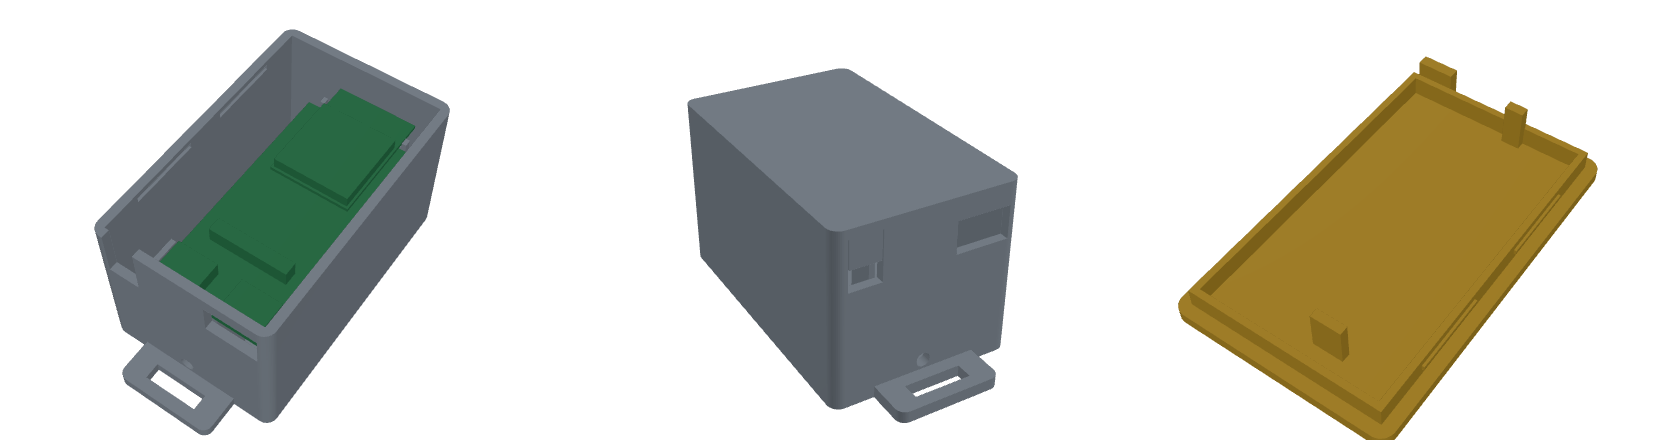
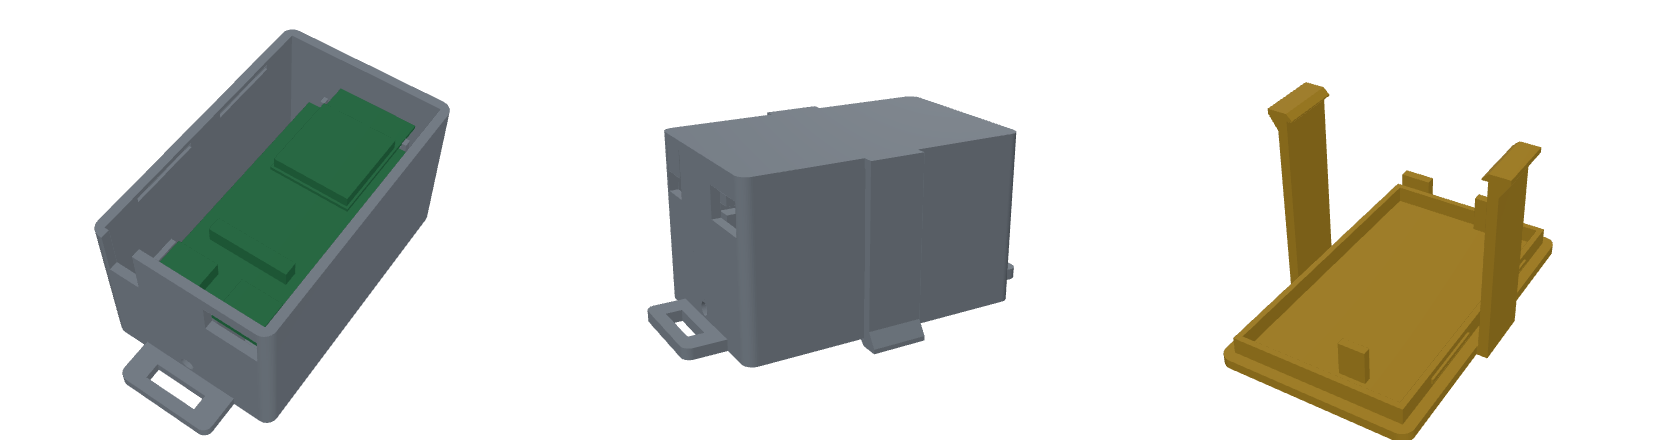
Add clips to the case lid
The lid's snap bumps did not hold it on. The lid now has a springy arm on
each long side that runs down the outside of the base and hooks under the
back edge, with a pull tab to release it. The base is unchanged, so a base
printed earlier still fits.

Claude-Session: https://claude.ai/code/session_01Bei1VRkiBdkUhXWhgDNMhk

diff --git a/enclosure/esp32-c6-devkitc-1/case.py b/enclosure/esp32-c6-devkitc-1/case.py
@@ -17,7 +17,7 @@ from pathlib import Path
 
 import numpy as np
 import trimesh
-from manifold3d import CrossSection, JoinType, Manifold
+from manifold3d import CrossSection, Error, JoinType, Manifold, Mesh
 
 # --- Board (Espressif drawing v1.2) ---------------------------------------
 PCB_W = 25.4          # board width
@@ -53,6 +53,16 @@ LIP_T = 1.2
 LID_CLEAR = 0.2       # gap between lid lip and walls
 SNAP = 0.45           # how far the snap bumps stand proud of the lip
 POST_GAP = 0.15       # gap left between the lid's hold-down posts and the board
+
+# Clips: one springy arm on each long side of the lid runs down the outside of
+# the base and hooks under the back edge. They need nothing on the base, so a
+# base printed before the clips were added still works.
+CLIP_W = 12.0         # width of each arm
+CLIP_T = 2.0          # arm thickness
+CLIP_GAP = 0.2        # gap between arm and the base's side wall
+HOOK = 1.0            # how far the hook reaches under the back edge
+HOOK_T = 1.5          # hook thickness
+HOOK_GAP = 0.1        # play between hook and the back of the case
 
 EAR_LEN = 9.0         # mounting ears at each end, for a strap or cable ties
 EAR_W = 22.0
@@ -160,6 +170,61 @@ def lid(cable_floor):
     part += box(BX + 11.0, BY + 0.8, PCB_TOP + POST_GAP, BX + 14.3, BY + 2.6, BASE_H + 0.01)
     part += box(BX + 10.0, BY + PCB_L + 0.4, PCB_TOP + MODULE_PCB_T + POST_GAP,
                 BX + 15.4, BY + PCB_L + 2.0, BASE_H + 0.01)
+    part += clips()
+    return part
+
+
+def xz_prism(points, y_centre, width):
+    """Extrude a convex polygon drawn in the x-z plane along y, centred on y_centre.
+
+    Built directly from vertices (rather than extruded and rotated) so every
+    coordinate is exact and the faces line up with the rest of the lid.
+    """
+    pts = list(points)
+    area = sum(x0 * z1 - x1 * z0 for (x0, z0), (x1, z1) in zip(pts, pts[1:] + pts[:1]))
+    if area < 0:
+        pts.reverse()
+    n = len(pts)
+    y0, y1 = y_centre - width / 2, y_centre + width / 2
+    verts = [(x, y0, z) for x, z in pts] + [(x, y1, z) for x, z in pts]
+    tris = []
+    for k in range(1, n - 1):
+        tris.append((0, k, k + 1))               # cap at y0, facing -y
+        tris.append((n, n + k + 1, n + k))       # cap at y1, facing +y
+    for k in range(n):
+        a, b = k, (k + 1) % n
+        tris.append((a, n + a, n + b))
+        tris.append((a, n + b, b))
+    mesh = Mesh(vert_properties=np.array(verts, dtype=np.float32), tri_verts=np.array(tris, dtype=np.uint32))
+    m = Manifold(mesh)
+    if m.volume() < 0 or m.status() != Error.NoError:
+        raise ValueError("bad prism")
+    return m
+
+
+def clips():
+    """Two clip arms, attached to the lid plate, in assembled coordinates."""
+    part = Manifold()
+    yc = OUT_L / 2
+    top = BASE_H + LID_T
+    z_hook = -HOOK_GAP
+    z_end = z_hook - HOOK_T
+    for side in (-1, 1):
+        def x(v):
+            # v is measured outward from the side wall; flip it for the right side.
+            return -v if side < 0 else OUT_W + v
+        a_in, a_out = CLIP_GAP, CLIP_GAP + CLIP_T
+        # Arm, from the lid plate down past the back of the case.
+        arm = [(x(a_in), z_end), (x(a_out), z_end), (x(a_out), top), (x(a_in), top)]
+        # Bridge joining the arm to the lid plate.
+        bridge = [(x(a_out), BASE_H), (x(-1.5), BASE_H), (x(-1.5), top), (x(a_out), top)]
+        # Hook under the back edge, with a sloped lead-in so it rides over the
+        # wall as the lid is pressed on.
+        hook = [(x(a_in), z_hook), (x(-HOOK), z_hook), (x(-HOOK), z_hook - 0.3), (x(a_in), z_end)]
+        # Pull tab at the tip, to flick the arm outward when taking the lid off.
+        tab = [(x(a_out), z_end), (x(a_out + 2.0), z_end), (x(a_out + 2.0), z_end + 1.0), (x(a_out), z_end + 4.0)]
+        for poly in (arm, bridge, hook, tab):
+            part += xz_prism(poly, yc, CLIP_W)
     return part
 
 
@@ -174,7 +239,9 @@ def main():
     b, cable_floor = base()
     lid_part = lid(cable_floor)
     # Print the lid plate-down: flip it over and sit it on the bed.
-    lid_print = lid_part.rotate([180, 0, 0]).translate([0, OUT_L, BASE_H + LID_T])
+    lid_print = lid_part.rotate([180, 0, 0])
+    lo = lid_print.bounding_box()
+    lid_print = lid_print.translate([0, -lo[1], -lo[2]])
     for name, m in (("base", b), ("lid", lid_print)):
         t = to_trimesh(m)
         t.export(out / f"{name}.stl")

diff --git a/enclosure/esp32-c6-devkitc-1/README.md b/enclosure/esp32-c6-devkitc-1/README.md
@@ -7,7 +7,7 @@ A two-part case for the reference board, sized for an outdoor meter cabinet.
 | File | What it is |
 | --- | --- |
 | `base.stl` | The tray the board sits in. Print it standing on its back |
-| `lid.stl` | Snap-on lid. Already turned plate-down for printing |
+| `lid.stl` | Clip-on lid. Already turned plate-down for printing |
 | `assembled-preview.stl` | Both parts together, for viewing only. Do not print |
 | `case.py` | Generates the STL files. Every size is a parameter at the top |
 
@@ -30,7 +30,8 @@ round cable up to about 4.5 mm. Change `CABLE` if yours is bigger.
   soften PLA, and PETG copes better with damp.
 - 0.2 mm layers, 4 walls, 20 to 30% infill.
 - No supports needed. The base prints on its back with the open side up. The
-  lid prints plate-down.
+  lid prints plate-down, with its two clip arms standing up; a brim helps the
+  arms stay put on the bed.
 
 ## Fitting
 
@@ -40,9 +41,10 @@ round cable up to about 4.5 mm. Change `CABLE` if yours is bigger.
 2. Lay the RJ12 cable in the slot in the end wall. Put a cable tie tightly
    round the cable just inside the case, so a tug on the cable pulls on the
    case, not on the wires.
-3. Press the lid on. It snaps into grooves on both long sides, and its tab
-   closes the cable slot. Two posts on the lid stop the board lifting. Prise
-   the lid off with a fingernail at the cable end.
+3. Press the lid on. A springy arm on each long side slides down the outside
+   of the case and clicks under the back edge, and the lid's tab closes the
+   cable slot. Two posts on the lid stop the board lifting. To open it, pull
+   the small tab at the bottom of each arm outward and lift the lid.
 4. Mount it with the openings facing **down**, so water cannot run in. The
    drain hole beside them lets out any condensation.
 
@@ -54,8 +56,11 @@ fit to be removable. So:
 - Do not screw or drill anything in the meter box, and do not fix the case to
   the meter itself.
 - Use the slots in the two ears for a hook-and-loop strap or cable ties round
-  something already in the cabinet, or stick hook-and-loop pads to the flat
-  back of the case.
+  something already in the cabinet, or stick hook-and-loop pads to the back of
+  the case.
+- The clip hooks stand about 1.6 mm proud of the back. Hook-and-loop pads are
+  thicker than that, so the case still sits flat; if you strap it straight
+  against a surface, put the pads near the ends, clear of the hooks.
 - Keep the antenna end clear of metal for the best Wi-Fi signal.
 
 See the [disclaimer](../../DISCLAIMER.md) for the full conditions.
@@ -75,5 +80,7 @@ python case.py
 Board dimensions come from Espressif's drawing
 `esp32-c6-devkitc-1-dimensions_v1.2` (25.4 × 51.8 mm board, antenna
 overhanging the top edge by 6.35 mm). The case was checked against a 3D model
-of the board, header pins, Dupont plugs and a USB-C plug for collisions, but
-has not been printed and test-fitted yet.
+of the board, header pins, Dupont plugs and a USB-C plug for collisions, and
+the base has been printed and test-fitted. The clip lid replaced an earlier
+lid whose snap bumps did not hold; it works with a base printed before the
+change.
